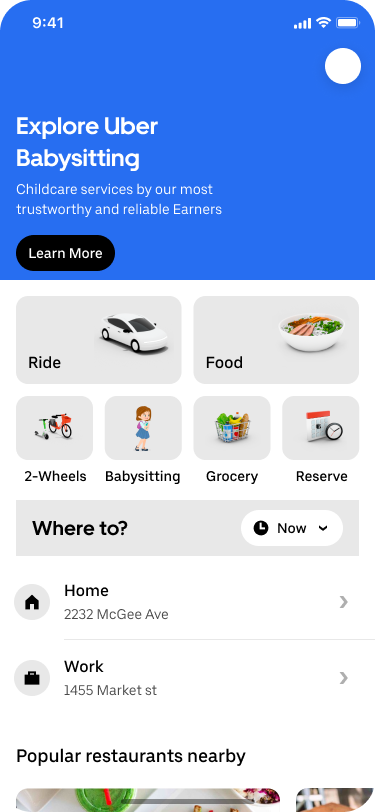
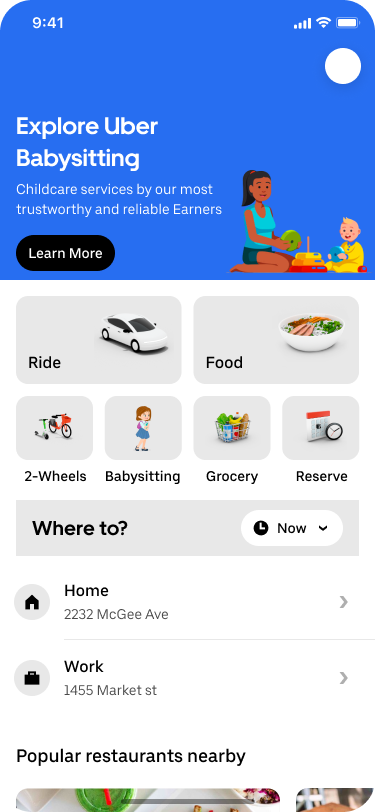
Added link to FTUX Prelude

Changed region(s): [[0.616, 0.1847, 0.9973, 0.3387]]

diff --git a/src/Pages/HomeScreen/HomeScreen.js b/src/Pages/HomeScreen/HomeScreen.js
@@ -1,6 +1,5 @@
 import React from 'react';
 import { useNavigate } from "react-router-dom";
-import './HomeScreen.css';
 
 import { Button, SIZE } from "baseui/button";
 import MockScreenshot from '../../Components/MockScreenshot/MockScreenshot.js';
@@ -11,7 +10,7 @@ function Home() {
     return (
         <div className='Home page'>
             <MockScreenshot imageUrl={Image}> {/*each instance of MockScreenshot needs an image url passed like this */}
-                <Button onClick={() => { navigate(`/newfeature`) }} className='to-ftux-screen-button'
+                <Button onClick={() => { navigate(`/ftuxpreludescreen`) }} className='to-ftux-screen-button'
                 style={{
                     width: '100px',
                     height: '40px',
@@ -22,6 +21,17 @@ function Home() {
                 }}>
                     {/*make sure navigate param matches path defined in App.js*/}
                 </Button>     
+                <Button onClick={() => { navigate(`/ftuxpreludescreen`) }} className='to-ftux-screen-button'
+                style={{
+                    width: '80px',
+                    height: '70px',
+                    position: 'absolute',
+                    top: '48%', /* Adjust the top value as needed */
+                    left: '28%', /* Adjust the left value as needed */
+                    backgroundColor: 'transparent', // Set your desired background color
+                }}>
+                    {/*make sure navigate param matches path defined in App.js*/}
+                </Button>   
             </MockScreenshot>
         </div>
     );

diff --git a/src/App.js b/src/App.js
@@ -13,6 +13,7 @@ import {
 import Home from './Pages/Home/Home.js';
 import NewFeature from './Pages/NewFeature/NewFeature.js';
 import HomeScreen from './Pages/HomeScreen/HomeScreen.js';
+import FTUXPreludeScreen from './Pages/FTUXPreludeScreen/FTUXPreludeScreen.js';
 
 const engine = new Styletron();
 
@@ -26,6 +27,8 @@ function App() {
               <Route path="/" element={<Home />} />
               <Route path="/newfeature" element={<NewFeature />} />
               <Route path="/homescreen" element={<HomeScreen />} />
+              <Route path="/homescreen" element={<HomeScreen />} />
+              <Route path="/ftuxpreludescreen" element={<FTUXPreludeScreen />} />
             </Routes>
           </BrowserRouter>
         </BaseProvider>

diff --git a/src/Pages/FTUXPreludeScreen/FTUXPreludeScreen.js b/src/Pages/FTUXPreludeScreen/FTUXPreludeScreen.js
@@ -1,0 +1,18 @@
+import React from 'react';
+import { useNavigate } from "react-router-dom";
+
+import { Button, SIZE } from "baseui/button";
+import MockScreenshot from '../../Components/MockScreenshot/MockScreenshot.js';
+import Image from './FTUXPreludeScreen_ss.png'; // an image is defined here using file path
+
+function Home() {
+    let navigate = useNavigate();
+    return (
+        <div className='Home page'>
+            <MockScreenshot imageUrl={Image}> {/*each instance of MockScreenshot needs an image url passed like this */}
+            </MockScreenshot>
+        </div>
+    );
+}
+
+export default Home;
